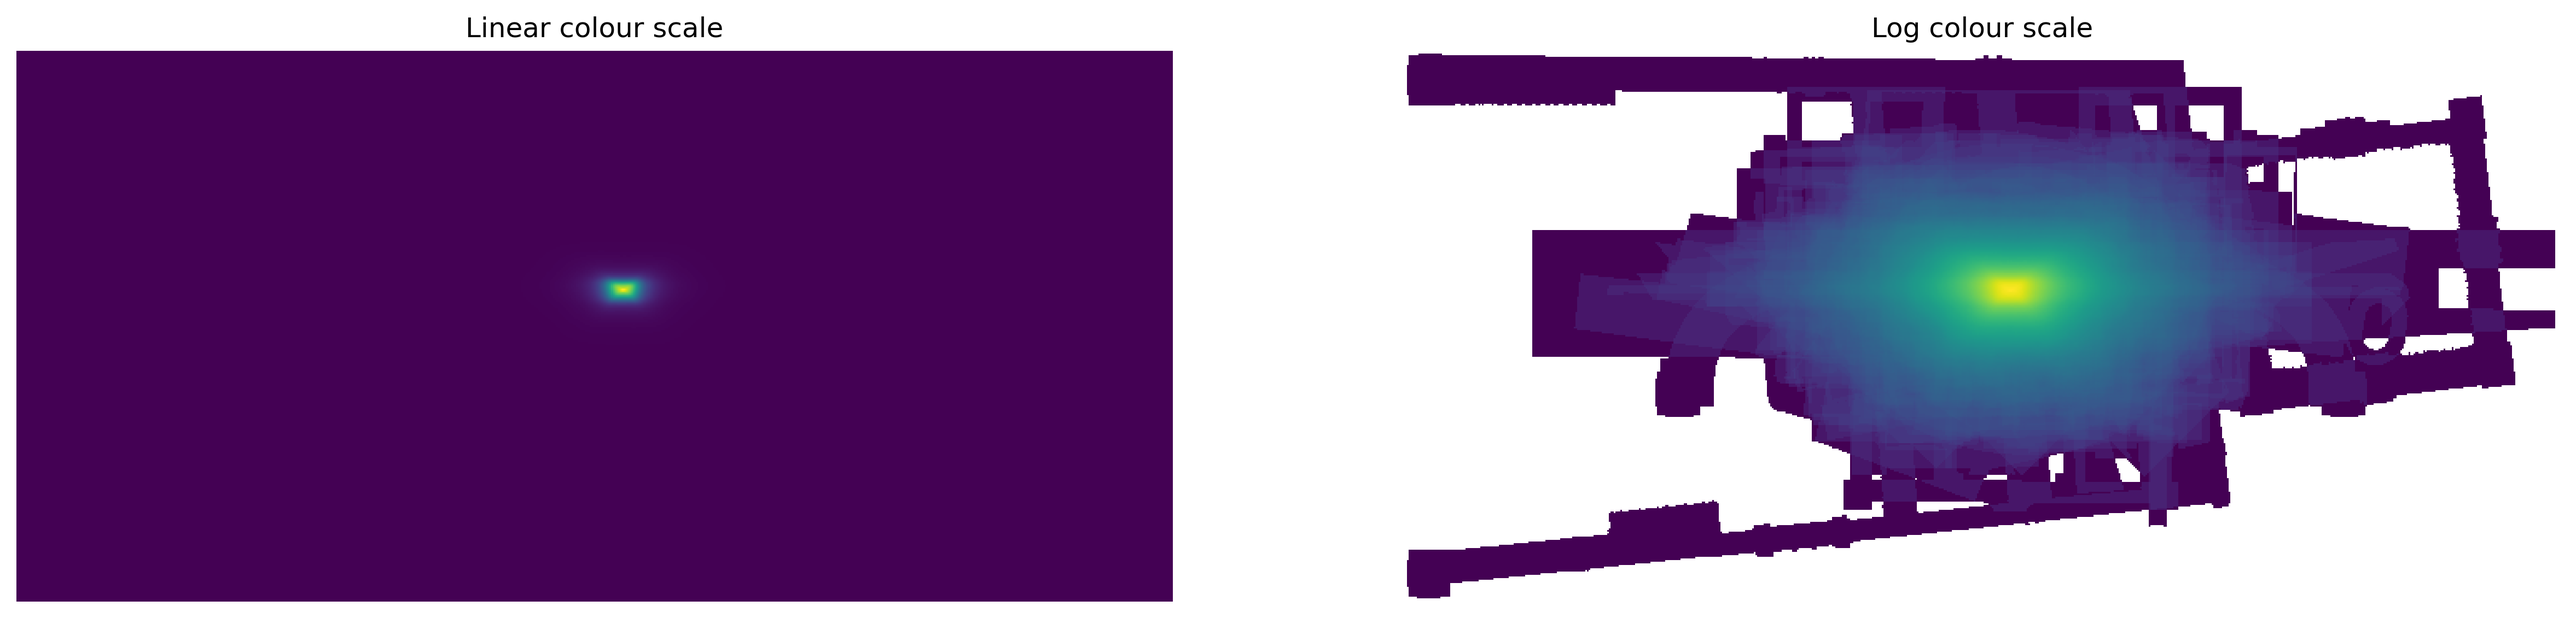
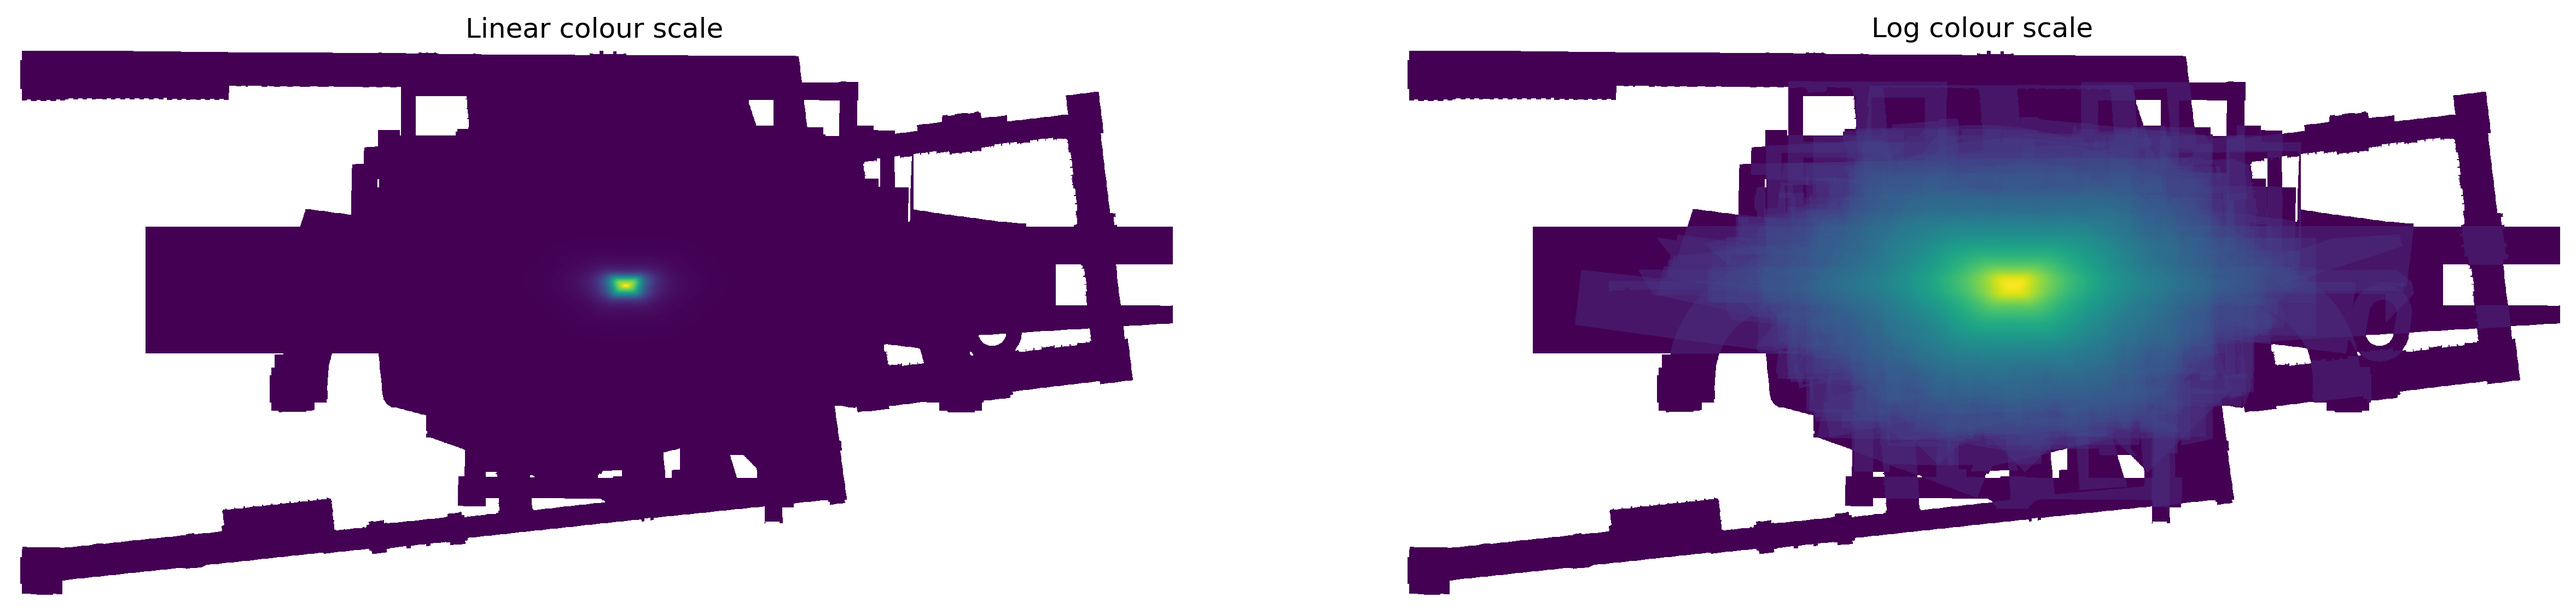
feat: fill more sections

diff --git a/_posts/2024-12-21-City-Summit.md b/_posts/2024-12-21-City-Summit.md
@@ -36,7 +36,7 @@ This code will download the data locally as a GeoParquet and return a GeoDataFra
 
 To begin with, I knew I had to solve two problems: how to centre all the buildings so that they were in the same space, and how to rotate them in a similar orientation so that the edges of the buildings go mainly vertical and horizontal.
 
-##### Translating building vertices
+#### Translating building vertices
 
 For the first part, I have used the [Azimuthal Equidistant](https://en.wikipedia.org/wiki/Azimuthal_equidistant_projection) projection, that maintains the distances and azimuths. Each building was projected based on their centroid.
 
@@ -72,7 +72,7 @@ geom_proj # notice that values are close to zero - above and below, these are in
 # POLYGON ((2.0498206612070975 0.2566105251930882, -1.6097078406850456 1.3134800558941384, -2.093439190884303 -0.2328869958116028, 1.6502174436552757 -1.3231316731725968, 2.0498206612070975 0.2566105251930882))
 ```
 
-##### Finding the best building rotation angle
+#### Finding the best building rotation angle
 
 The second part was trickier. How can I determine when the building is "straight" or "right"?
 
@@ -169,28 +169,71 @@ canvas = rasterize(
     ),
 )
 
-canvas = np.flipud(canvas) # flip canvas vertically
+heightmap = np.flipud(canvas) # flip canvas vertically
 ```
+
+#### Plotting the heightmap
 
 ```python
 import matplotlib.pyplot as plt
+import numpy as np
+from matplotlib.colors import LogNorm
 
 fig, axes = plt.subplots(1, 2, figsize=(20, 10), dpi=300)
 
-# Linear scale plot
-axes[0].imshow(heightmap)
+heightmap_masked = np.ma.masked_where(heightmap == 0, heightmap)
+
+axes[0].imshow(heightmap_masked)
 axes[0].set_axis_off()
-
-# Logarithmic scale plot
-axes[1].imshow(heightmap, norm=LogNorm(vmin=1, vmax=heightmap.max()))
-axes[1].set_axis_off()
-
-
 axes[0].set_title("Linear colour scale")
+
+axes[1].imshow(heightmap_masked, norm=LogNorm())
+axes[1].set_axis_off()
 axes[1].set_title("Log colour scale")
+
+plt.show()
 ```
 
 {% include elements/figure.html image="https://raw.githubusercontent.com/RaczeQ/RaczeQ/refs/heads/gh-pages/assets/images/blog/city_summit/heightmap_plt_2d_plot.png" caption="Generated heightmap in linear and logarithmic colour scales." %}
+
+As you can see, the centre of the heightmap is dominated by extremely high values. This makes sense; after all, most buildings in cities have a fairly small footprint. To discover more detail, it is useful to display the values on a logarithmic scale.
+
+#### 3D visualization
+
+Having a heightmap, I began to wonder what it would look like in 3D. Using the Surface plot function from the Plotly library, I was able to generate an interactive visualisation for the calculated data.
+
+{% include elements/figure.html image="https://raw.githubusercontent.com/RaczeQ/RaczeQ/refs/heads/gh-pages/assets/images/blog/city_summit/plotly_surface_linear_scale.png" caption="Basic 3D surface plot." %}
+
+#### Loading the palette
+
+The next step to improve the look was the ability to change the colour palette. For this I used the PyPalettes library with which you can easily access thousands of palettes from various sources.
+
+```python
+from pypalettes import load_cmap
+import numpy as np
+
+loaded_cm = load_cmap("ag_Sunset", cmap_type="continuous")
+# resample to 256 values
+interpolated_colours = loaded_cm(np.linspace(0, 1, 256))
+
+# replace first colour with white or black
+white = np.array([1, 1, 1, 1])
+interpolated_colours[:1, :] = white
+
+# transform the palette to a plotly-compatible format:
+# a list of rgb(a) css values
+plotly_map = list(
+    map(
+        lambda c: f"rgb({int(c[0] * 255)}, {int(c[1] * 255)}, {int(c[2] * 255)})",
+        interpolated_colours[:, :3]
+    )
+)
+plotly_map
+```
+
+{% include elements/figure.html image="https://raw.githubusercontent.com/RaczeQ/RaczeQ/refs/heads/gh-pages/assets/images/blog/city_summit/pypalletes_docs.png" caption="Screenshot from the [Python Color Palette Finder](https://python-graph-gallery.com/color-palette-finder/) website." %}
+
+#### Polishing the visualization
 
 ## Streamlit implementation
 
@@ -201,6 +244,8 @@ axes[1].set_title("Log colour scale")
 This blog post is Work In Progress.
 
 TODO:
+
+- rotation or not - difference
 
 - first visualizations
 - iterations on visualizations
